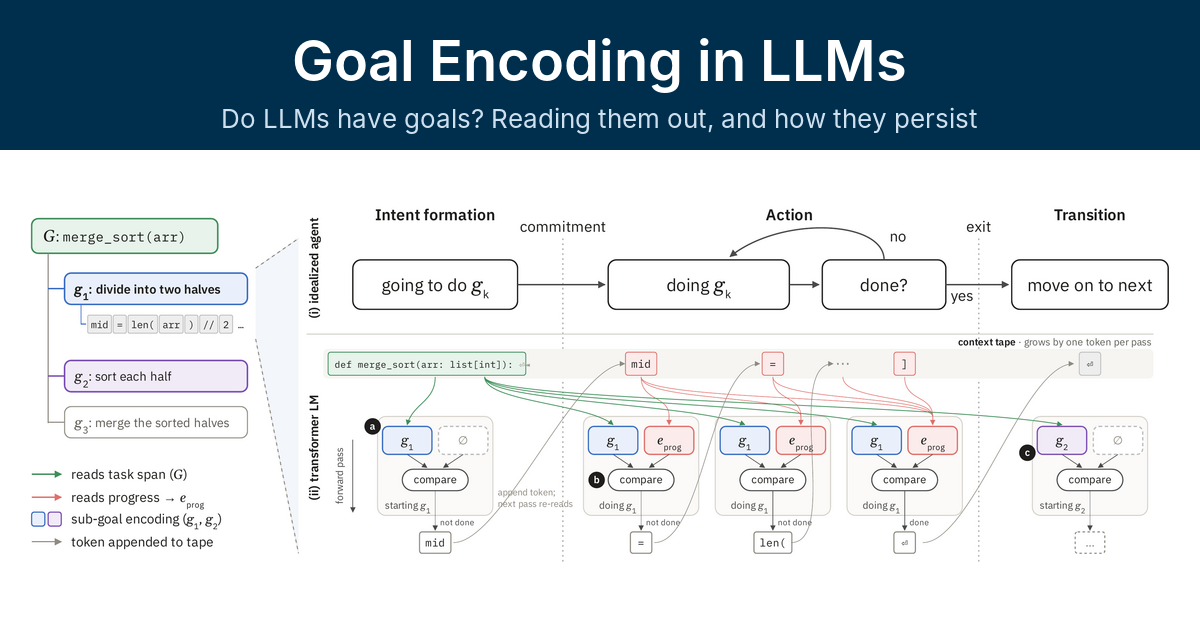
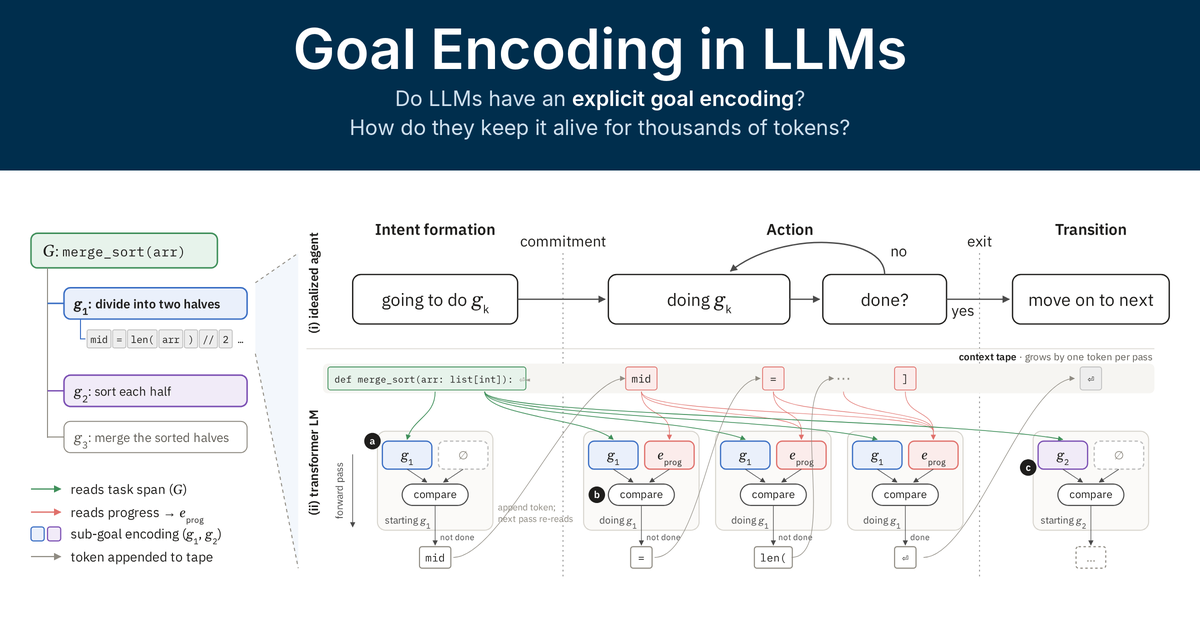
Sharper NRGS step-through and a new link-preview card
- nrgs-steps.gif: rebuilt at 2400 px from the slide's full-resolution step
  images (was 1600 px from a slide screenshot).
- social.png: subtitle now "Do LLMs have an explicit goal encoding? How do
  they keep it alive for thousands of tokens?", figure drawn from the SVG.
- og/twitter descriptions match the new subtitle.

diff --git a/public/index.html b/public/index.html
@@ -18,7 +18,7 @@
   <meta property="og:type" content="website">
   <meta property="og:site_name" content="Goal Encoding in LLMs">
   <meta property="og:title" content="Goal Encoding in LLMs">
-  <meta property="og:description" content="Do LLMs have goals? We look for an internal goal representation that is pre-committed, plastic and persistent, read it out with GoalScope, and show how a depth-bounded transformer keeps it alive by re-reading it.">
+  <meta property="og:description" content="Do LLMs have an explicit goal encoding? How do they keep it alive for thousands of tokens?">
   <meta property="og:url" content="https://goals.baulab.info/">
   <meta property="og:image" content="https://goals.baulab.info/images/social.png">
   <meta property="og:image:width" content="1200">
@@ -26,7 +26,7 @@
   <meta property="og:image:alt" content="Goal pursuit and its non-recurrent implementation in a transformer LM">
   <meta name="twitter:card" content="summary_large_image">
   <meta name="twitter:title" content="Goal Encoding in LLMs">
-  <meta name="twitter:description" content="Do LLMs have goals? We look for an internal goal representation that is pre-committed, plastic and persistent, read it out with GoalScope, and show how a depth-bounded transformer keeps it alive by re-reading it.">
+  <meta name="twitter:description" content="Do LLMs have an explicit goal encoding? How do they keep it alive for thousands of tokens?">
   <meta name="twitter:image" content="https://goals.baulab.info/images/social.png">
   <script type="application/ld+json">
 {
